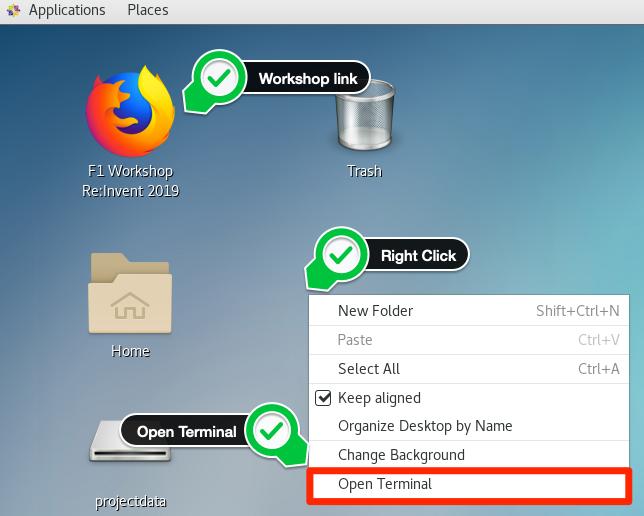
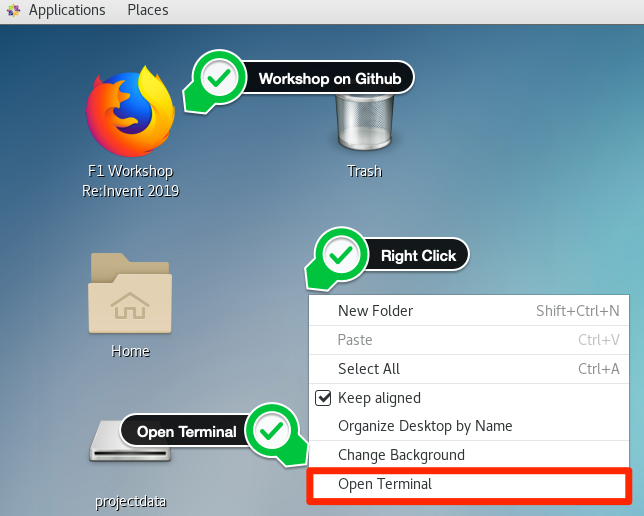
Changes from dryrun discussion

Changed region(s): [[0.4969, 0.093, 0.6522, 0.186]]

diff --git a/README.md b/README.md
@@ -1,23 +1,36 @@
 # SDAccel AWS F1 Developer Labs
-Welcome to the SDAccel AWS F1 Workshop. By going through these modules you will gain hands-on experience with AWS F1 and learn how to develop accelerated applications using the Xilinx SDAccel development environment.
+Welcome to the workshop on accelerating your C/C++ applications with Amazon EC2 F1 instances.
+
+This workshop will provide you with hands-on development experience on AWS EC2 F1 instances using FPGAs to enable custom hardware accelerations. Using F1 instances to deploy hardware accelerations can be useful in many applications to solve complex science, engineering, and business problems that require high bandwidth, enhanced networking, and very high compute capabilities. F1 instances provide diverse development environments: from low-level hardware developers to software developers who are more comfortable with C/C++ and openCL environments [available on our GitHub](https://github.com/aws/aws-fpga).
+
+Once your FPGA design is complete, you can register it as an Amazon FPGA Image(AFI), and deploy it to your F1 instance in just a few clicks. You can reuse your AFIs as many times as you like, and across as many F1 instances as you like. There is no software charge for the development tools when using the FPGA developer AMI and you can program the FPGAs on your F1 instance as many times as you like with no additional fees.  This workshop will focus on developing accelerated applications using the Xilinx SDAccel development environment.
+
+### Overview
+* This workshop is focused on identifying parts of your your C/C++ program that are best suited for acceleration on an FPGA. We will also use profiling data to analyze how to further optimize data movement.
+* In the interest of time, this workshop will use pre-built AFIs and pre-provisioned F1 instances. Attendee will not use their personal or corporate accounts for this workshop.
+* Each attendee will receive information to connect to an F1 instance. Use it while following the [setup steps](./setup/instructions.md) before beginning this workshop.
+* If at any point, you feel stuck or have questions, please raise your hand and we would be happy to assist you.
 
 ### Setup
-* For this workshop, we have provisioned an F1 instance for you to work on.
+* For this workshop, we have pre-provisioned an F1 instance for every attendee to work on.
 * Please go through the instructions to connect to your instance and get started with the workshop.
 
 [**FOLLOW THE INSTRUCTIONS**](./setup/instructions.md)
 
-### Module 1 - Optimize the data movement between CPU and FPGA
+### Module 1 - Optimize the data movement between CPU and FPGA [Time: ~1.5hrs]
 * Profile the software application and determine which functions to accelerate on FPGA
 * Working with a predefined FPGA accelerator, optimize performance by overlapping data transfers and FPGA execution
 * Further speed-up the application by overlapping FPGA execution and CPU processing
 
 [**FOLLOW THE INSTRUCTIONS**](./modules/module_01/README.md)
 
-### Module 2 - Methodology for Optimizing Accelerated FPGA Applications
+### Module 2 - Methodology for Optimizing Accelerated FPGA Applications [Time: ~4hrs]
 * Determine the software functions to be accelerated
 * Begin with a baseline design of 2D convolution of an RGBA video and a set of filter coefficients using ffmpeg
 * Perform a series of optimization methods to achieve the performance target
+
+> **NOTE:** This module is intended to be a take-home to be done on your own F1 instance, but feel free to get started and ask us questions about it during the workshop!
+>
 
 [**FOLLOW THE INSTRUCTIONS**](./modules/module_02/README.md)
 

diff --git a/setup/instructions.md b/setup/instructions.md
@@ -5,12 +5,14 @@ For this workshop, an F1 instance is pre-setup for you and instance connection d
 
 We will be using NICE DCV to start a remote desktop session to your instance.
 
+Please feel free to reach out to any of our workshop support staff to ask questions about this setup or if you get stuck at any point!
+
 > **NOTE:** We have seen VPN connections causing issues with connections. If you face such an issue, please re-try after turning your VPN connection off.
 
 ### Connect to your instance
 To be able to connect to the instance, you have two options in order of preference:
 
-1. **Using the NICE DCV Client(Preferred/Stable)**
+#### Option 1. **Using the NICE DCV Client(Preferred/Stable)**
 
    * Download and install the [DCV Client](https://download.nice-dcv.com/) for your laptop platform.
    
@@ -23,7 +25,7 @@ To be able to connect to the instance, you have two options in order of preferen
    * You should now be able to see your Desktop running on an F1 Instance
       ![DCV Desktop](../images/setup/dcv_desktop.png)
    
-1. **Using a web browser**
+##### Option 2. **Using a web browser**
 
    * You can use this option if you cannot download/use the DCV Viewer.
    * Make sure that you are using a [supported web browser](https://docs.aws.amazon.com/dcv/latest/adminguide/what-is-dcv.html#what-is-dcv-requirements).
@@ -46,14 +48,38 @@ To be able to connect to the instance, you have two options in order of preferen
             1. Click on Advanced and then click on `Accept use risk and continue`
             ![Firefox_Warning](../images/setup/firefox_dcv_cert_warning.png)
 
+   * Use the Public IP address, and port 8443 to connect.
+
+      An example login screen (for the DCV Client you will need to connect first using the IP:Port, for example `111.222.333.444:8443`):
+
+      ![DCV Login](../images/setup/dcv_login.png)
    * You should now be able to see your Desktop running on an F1 Instance
         ![DCV Desktop_Browser](../images/setup/dcv_desktop_browser.png)
 
 ### Start your workshop
+
+   * Open a terminal and follow the Workshop Module instructions.
    ![DCV Start_Terminal](../images/setup/dcv_desktop_start_terminal.png)
 
-   * Once you are on your desktop, you should be able to open the workshop link and follow the same instructions.
-   * Open a terminal and follow the [Workshop Module instructions](../README.md)
+   * The [SDAccel AWS F1 Labs repository](https://github.com/Xilinx/SDAccel-AWS-F1-Developer-Labs) and the [aws-fpga](htttps://github.com/aws/aws-fpga) Development Kit have already been down
+
+   * To check that your instance has your workshop cloned, run the following command:
+        ```bash
+        ls -la /home/centos/src/project_data/
+        total 28
+        drwxr-xr-x  5 centos centos  4096 Nov 22 22:36 .
+        drwxrwxr-x. 4 centos centos    79 Sep 13 18:46 ..
+        **drwxrwxr-x  9 centos centos  4096 Nov 22 22:35 aws-fpga**
+        **drwxrwxr-x  6 centos centos  4096 Nov 25 20:06 SDAccel-AWS-F1-Developer-Labs**
+        ```
+   * Once you are on your desktop, you should be able to open the workshop link and follow the workshop.
+   > **NOTE** Clicking the `F1_ReInvent_Workshop.desktop` file will prompt to trust the document launcher. Click Trust and Proceed as that will open up the main README from Github.
+   * If Github is down/slow, you can use local webserver to look at the workshop material locally on the instance. Run the following command to open the instructions on a browser.
+        ```
+        firefox http://localhost:6419
+        ```
+   * You are all setup to start the first module!
+   
 ---------------------------------------
 
 <p align="center"><b>

diff --git a/modules/module_01/data_movement.md b/modules/module_01/data_movement.md
@@ -503,7 +503,7 @@ b. Block the host only if the hash function of the words are still not computed 
 
 ### Run the Application
 
-1. Go to the `makefile` directory and run the `make` command.
+1. Go to the `modules/module_01/makefile` directory and run the `make` command.
 
     ```bash
     cd /home/centos/src/project_data/SDAccel-AWS-F1-Developer-Labs/modules/module_01/makefile
@@ -550,10 +550,11 @@ In this lab, you worked with a pre-defined FPGA accelerator and learned that opt
 
 In the next module, you will create and optimize a two-dimensional convolution accelerator used to filter a video stream at 30fps. 
 
->**TIP:** The next module consists of 7 steps and might take longer time to complete.
+>**NOTE:** The next module consists of 7 steps and will take longer time to complete. This is meant to be a take-home module to be run on your own F1 instance.
+> If you are done early with Module 1, feel free to run through Module 2 steps and ask questions to the workshop staff about the module at any point!
 
 ---------------------------------------
 
 <p align="center"><b>
-Start the second lab: <a href="../module_02/README.md">Methodology for Optimizing Accelerated FPGA Applications</a>
+Start the second module: <a href="../module_02/README.md">Methodology for Optimizing Accelerated FPGA Applications</a>
 </b></p>

diff --git a/modules/module_01/README.md b/modules/module_01/README.md
@@ -15,7 +15,6 @@ You will profile the Bloom filter application and evaluate which sections are be
 1. **Optimizing CPU and FPGA interactions for improved performance** \
 You will learn the coding techniques used to create the optimized version run in the first lab. Working with a predefined FPGA accelerator, you will experience how to optimize data movements between host and FPGA, how to efficiently invoke the FPGA kernel and how to overlap computation on the CPU and the FPGA to maximize application performance. 
 
-After you complete the last lab, you will be guided to close your RDP session, stop your F1 instance and explore next steps to continue your experience with SDAccel on AWS.
 
 ---------------------------------------
 

diff --git a/modules/module_01/host_eval.md b/modules/module_01/host_eval.md
@@ -214,5 +214,5 @@ In the next lab you will dive deeper into the details of the FPGA-accelerated ap
 ---------------------------------------
 
 <p align="center"><b>
-Start the next module: <a href="./data_movement.md">2: Optimizing CPU and FPGA interactions</a>
+Start the next step: <a href="./data_movement.md">2: Optimizing CPU and FPGA interactions</a>
 </b></p>
